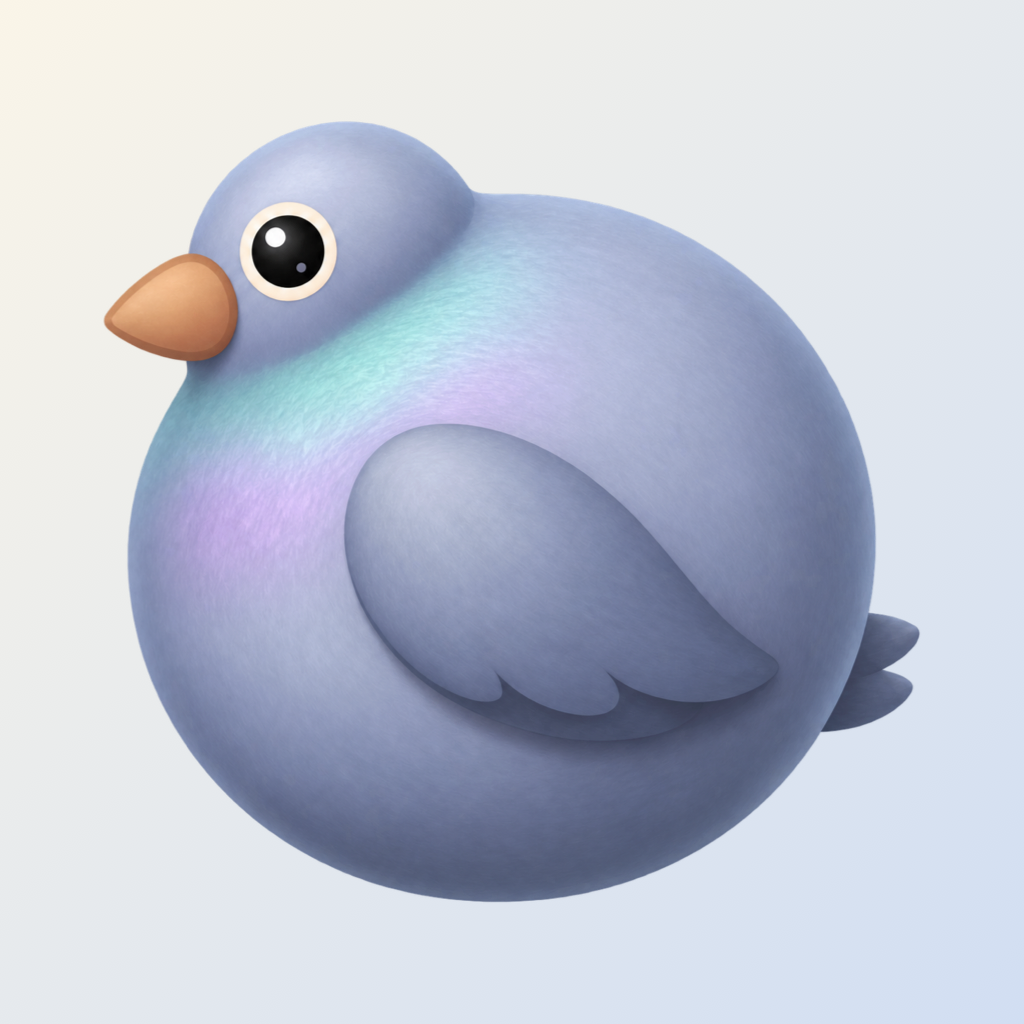
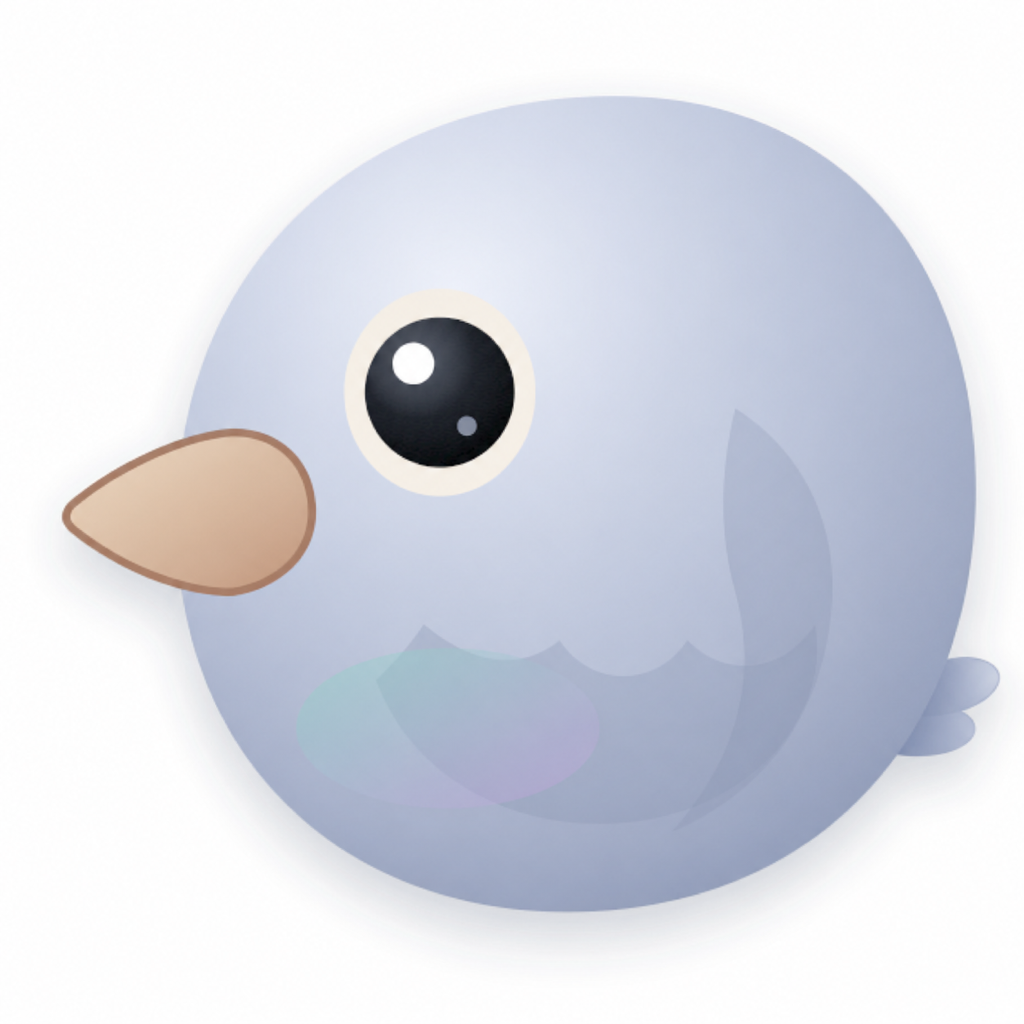
feat: refine Pijoo branding with tail

diff --git a/macos/README.md b/macos/README.md
@@ -89,7 +89,7 @@ Mac 上新建频道、成员和 task 绑定，不复用 0.2 配置。
 Bundle ID、版本、完整代码签名和当前 App 的 designated requirement，通过后替换 App 并自动
 重新打开；失败时保留旧 App 并展示错误。
 
-App 图标使用不透明背景的圆身传信鸽品牌稿；README 使用透明品牌图，菜单栏使用同一识别特征的单色 SVG，并由 macOS 作为模板图标渲染。
+App 图标与 README 使用原版传信鸽加小尾巴品牌稿；菜单栏使用同一识别特征的单色 SVG，并由 macOS 作为模板图标渲染。
 
 [`v0.3.0-beta.23`](https://github.com/Yuyang-Hou/pijoo/releases/tag/v0.3.0-beta.23)
 已作为 Developer ID 签名并公证的 GitHub prerelease 发布。预上线分发只使用 Beta 标签；首次从旧

diff --git a/openspec/changes/package-macos-menu-bar-app/specs/local-app/spec.md b/openspec/changes/package-macos-menu-bar-app/specs/local-app/spec.md
@@ -147,7 +147,7 @@ App MUST 提供正式版和 Beta 两个独立的手动检查入口，并且 MUST
 
 ### Requirement: 品牌图标
 
-App MUST 使用仓库现有圆身传信鸽图作为 App icon，并使用同轮廓的单色 SVG Template Image
+App MUST 使用仓库现有原版传信鸽加小尾巴图作为 App icon，并使用同轮廓的单色 SVG Template Image
 作为菜单栏常态图标。
 
 #### Scenario: 明暗菜单栏
